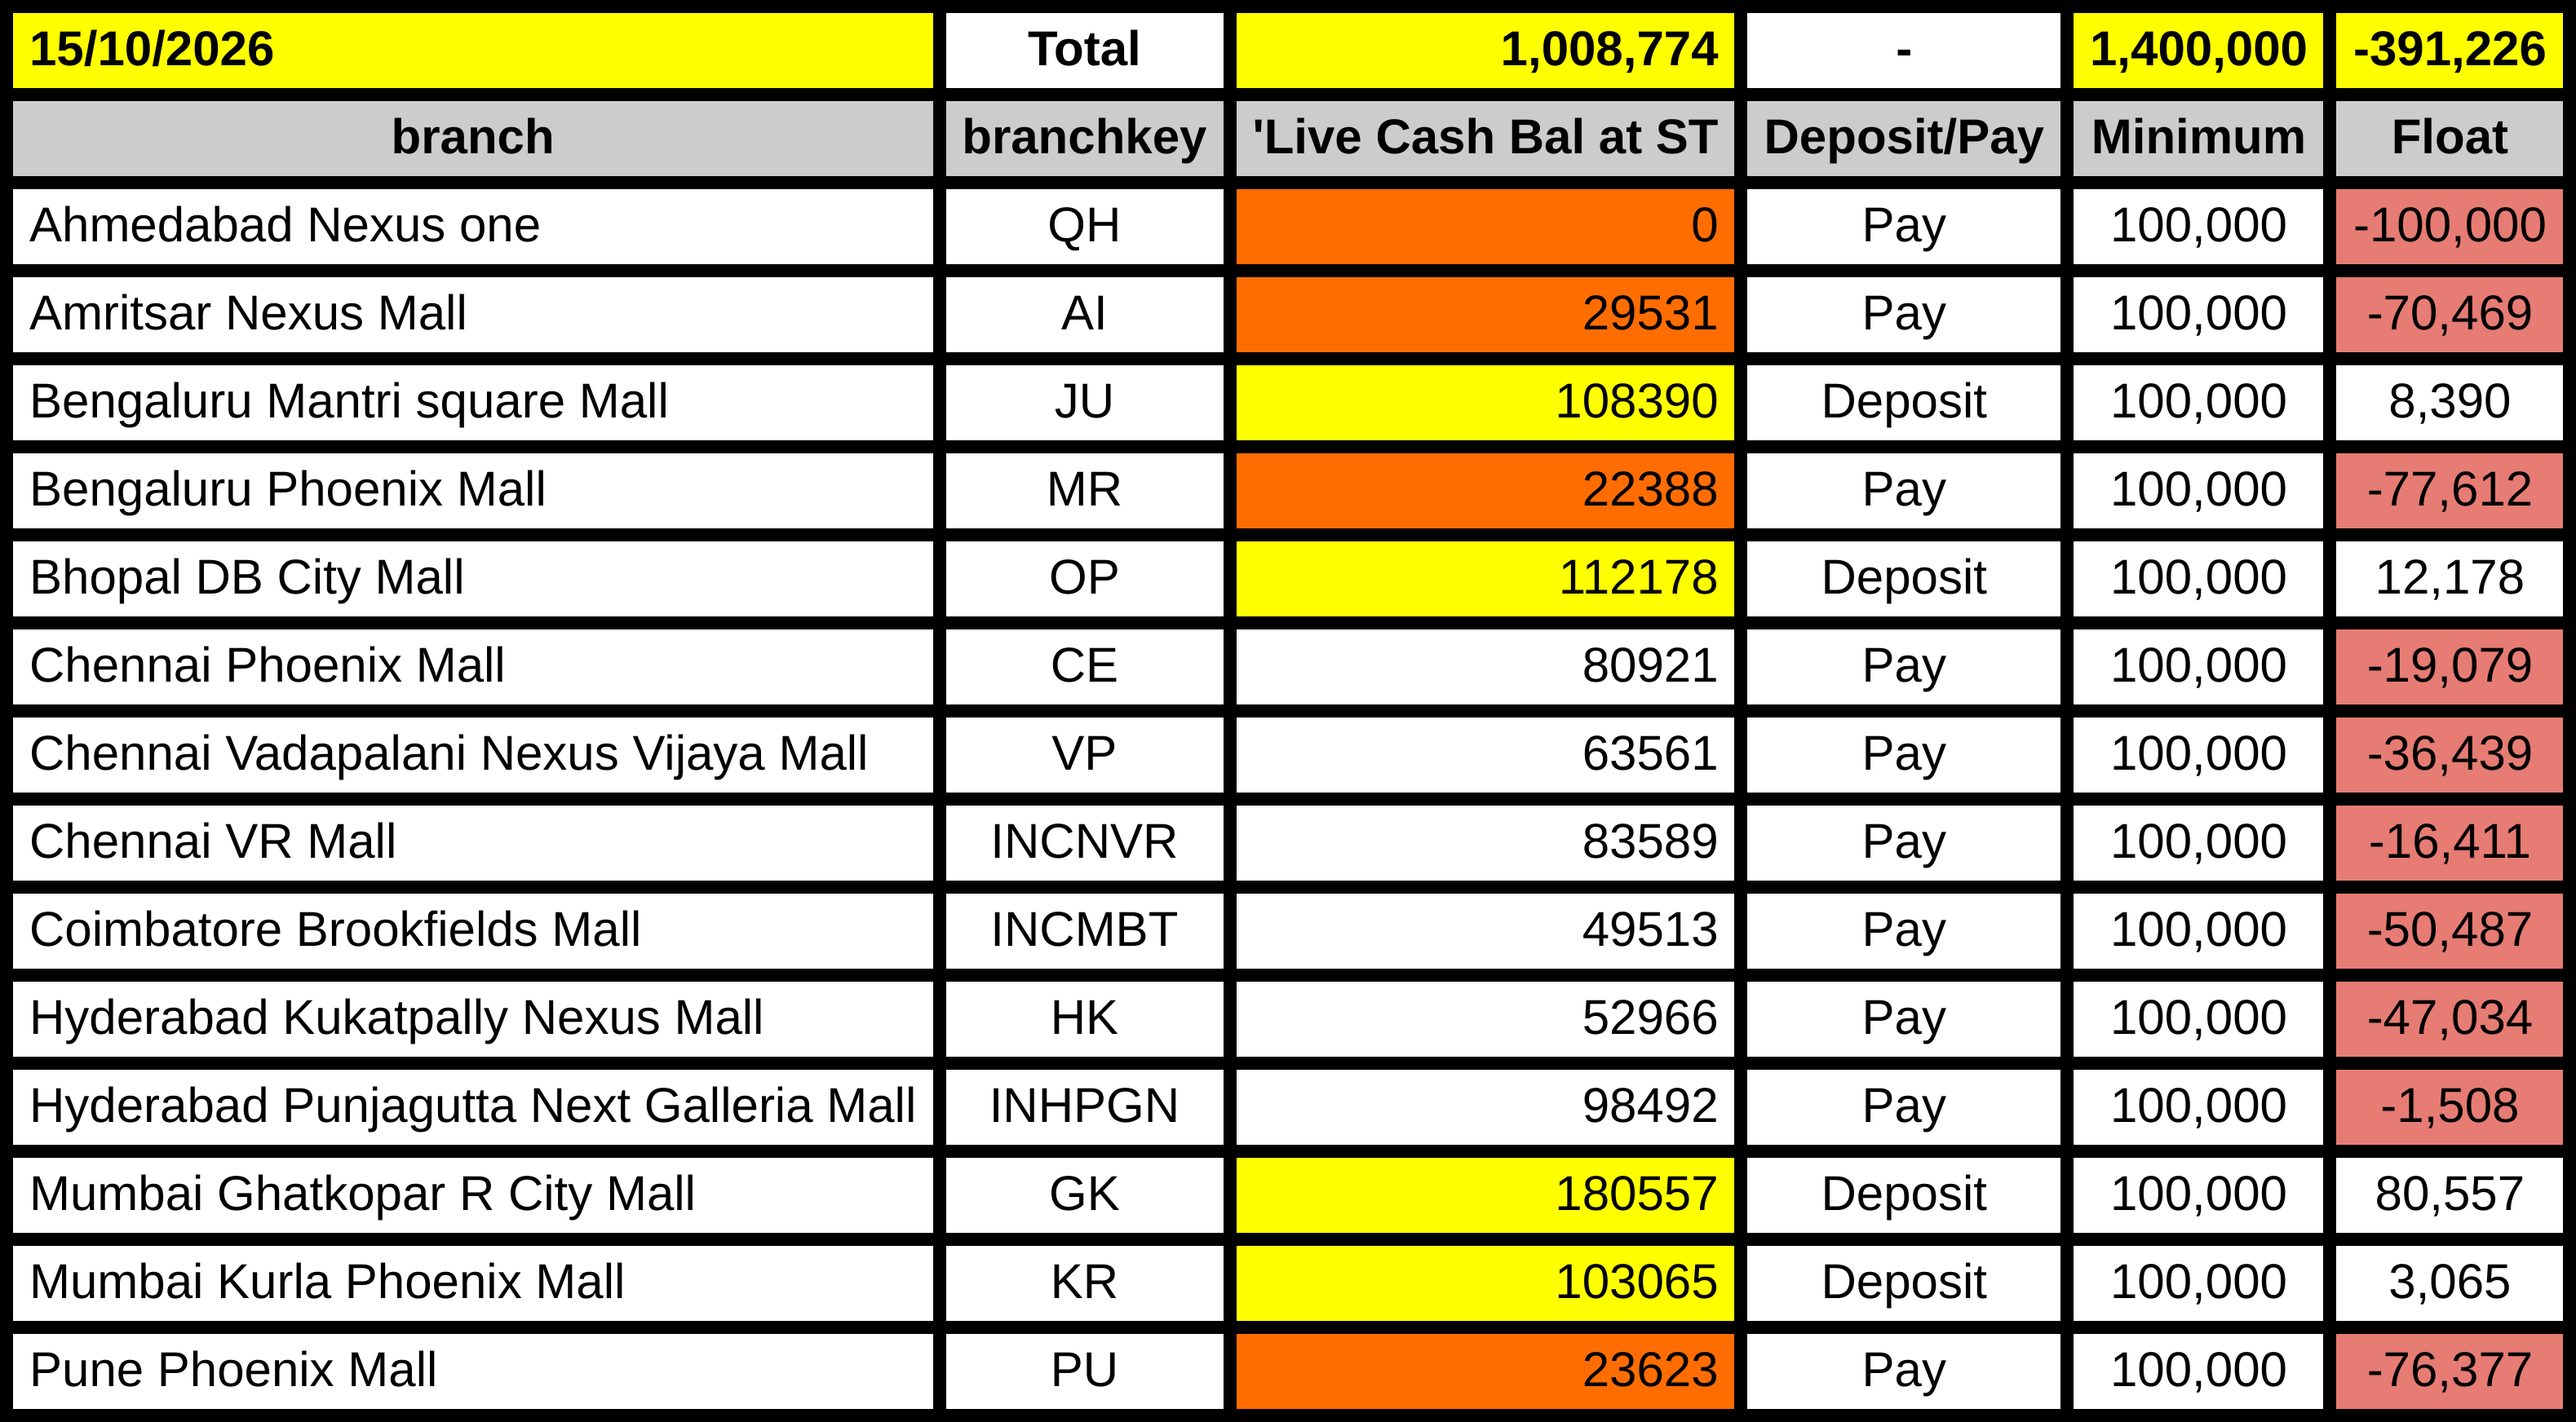
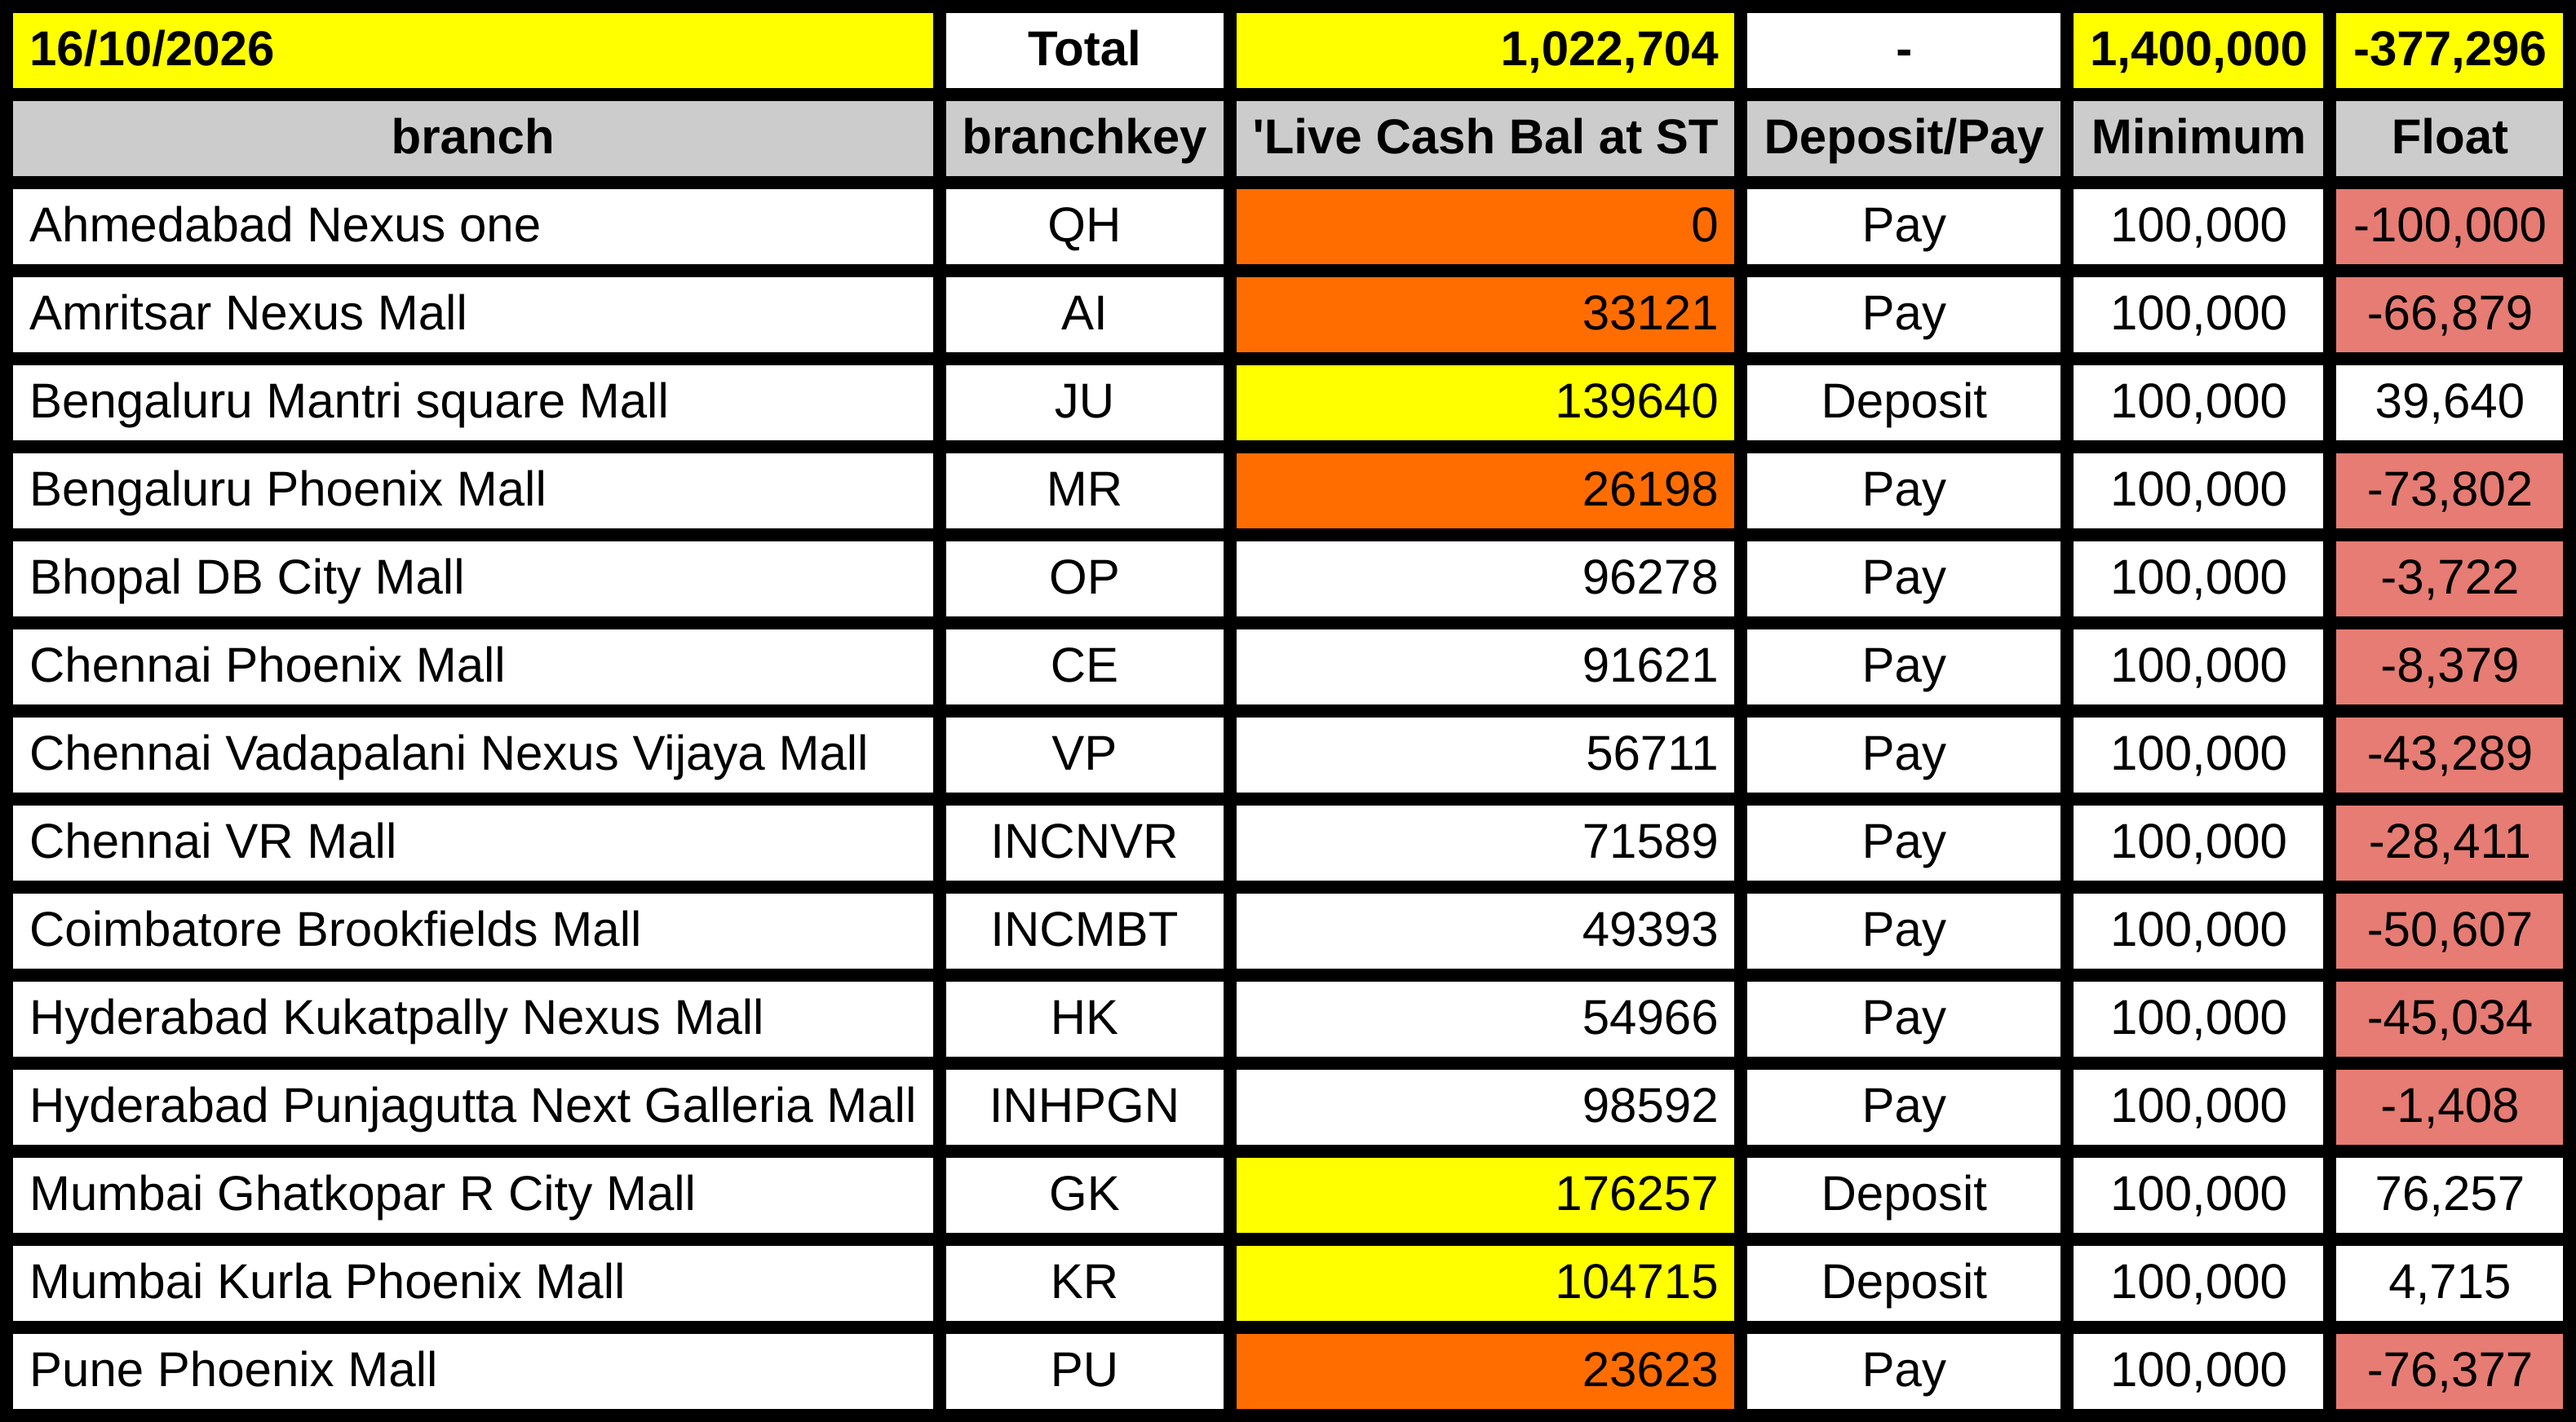
deploy: 1eb6ce62876c9d41067b4594acfaffc291ee4c8b

diff --git a/table.html b/table.html
@@ -21,7 +21,7 @@
           font-family: Arial, sans-serif;
           font-size: 30px;
           white-space: nowrap;
-        ">15/10/2026</td>
+        ">16/10/2026</td>
       
         <td style="
           background-color: #ffffff;
@@ -49,7 +49,7 @@
           font-family: Arial, sans-serif;
           font-size: 30px;
           white-space: nowrap;
-        ">1,008,774</td>
+        ">1,022,704</td>
       
         <td style="
           background-color: #ffffff;
@@ -91,7 +91,7 @@
           font-family: Arial, sans-serif;
           font-size: 30px;
           white-space: nowrap;
-        ">-391,226</td>
+        ">-377,296</td>
       </tr><tr>
         <td style="
           background-color: #cccccc;
@@ -301,7 +301,7 @@
           font-family: Arial, sans-serif;
           font-size: 30px;
           white-space: nowrap;
-        ">29531</td>
+        ">33121</td>
       
         <td style="
           background-color: #ffffff;
@@ -343,7 +343,7 @@
           font-family: Arial, sans-serif;
           font-size: 30px;
           white-space: nowrap;
-        ">-70,469</td>
+        ">-66,879</td>
       </tr><tr>
         <td style="
           background-color: #ffffff;
@@ -385,7 +385,7 @@
           font-family: Arial, sans-serif;
           font-size: 30px;
           white-space: nowrap;
-        ">108390</td>
+        ">139640</td>
       
         <td style="
           background-color: #ffffff;
@@ -427,7 +427,7 @@
           font-family: Arial, sans-serif;
           font-size: 30px;
           white-space: nowrap;
-        ">8,390</td>
+        ">39,640</td>
       </tr><tr>
         <td style="
           background-color: #ffffff;
@@ -469,7 +469,7 @@
           font-family: Arial, sans-serif;
           font-size: 30px;
           white-space: nowrap;
-        ">22388</td>
+        ">26198</td>
       
         <td style="
           background-color: #ffffff;
@@ -511,7 +511,7 @@
           font-family: Arial, sans-serif;
           font-size: 30px;
           white-space: nowrap;
-        ">-77,612</td>
+        ">-73,802</td>
       </tr><tr>
         <td style="
           background-color: #ffffff;
@@ -542,7 +542,7 @@
         ">OP</td>
       
         <td style="
-          background-color: #ffff00;
+          background-color: #ffffff;
           color: #000000;
           font-weight: normal;
           font-style: normal;
@@ -553,7 +553,7 @@
           font-family: Arial, sans-serif;
           font-size: 30px;
           white-space: nowrap;
-        ">112178</td>
+        ">96278</td>
       
         <td style="
           background-color: #ffffff;
@@ -567,7 +567,7 @@
           font-family: Arial, sans-serif;
           font-size: 30px;
           white-space: nowrap;
-        ">Deposit</td>
+        ">Pay</td>
       
         <td style="
           background-color: #ffffff;
@@ -584,7 +584,7 @@
         ">100,000</td>
       
         <td style="
-          background-color: #ffffff;
+          background-color: #e67c73;
           color: #000000;
           font-weight: normal;
           font-style: normal;
@@ -595,7 +595,7 @@
           font-family: Arial, sans-serif;
           font-size: 30px;
           white-space: nowrap;
-        ">12,178</td>
+        ">-3,722</td>
       </tr><tr>
         <td style="
           background-color: #ffffff;
@@ -637,7 +637,7 @@
           font-family: Arial, sans-serif;
           font-size: 30px;
           white-space: nowrap;
-        ">80921</td>
+        ">91621</td>
       
         <td style="
           background-color: #ffffff;
@@ -679,7 +679,7 @@
           font-family: Arial, sans-serif;
           font-size: 30px;
           white-space: nowrap;
-        ">-19,079</td>
+        ">-8,379</td>
       </tr><tr>
         <td style="
           background-color: #ffffff;
@@ -721,7 +721,7 @@
           font-family: Arial, sans-serif;
           font-size: 30px;
           white-space: nowrap;
-        ">63561</td>
+        ">56711</td>
       
         <td style="
           background-color: #ffffff;
@@ -763,7 +763,7 @@
           font-family: Arial, sans-serif;
           font-size: 30px;
           white-space: nowrap;
-        ">-36,439</td>
+        ">-43,289</td>
       </tr><tr>
         <td style="
           background-color: #ffffff;
@@ -805,7 +805,7 @@
           font-family: Arial, sans-serif;
           font-size: 30px;
           white-space: nowrap;
-        ">83589</td>
+        ">71589</td>
       
         <td style="
           background-color: #ffffff;
@@ -847,7 +847,7 @@
           font-family: Arial, sans-serif;
           font-size: 30px;
           white-space: nowrap;
-        ">-16,411</td>
+        ">-28,411</td>
       </tr><tr>
         <td style="
           background-color: #ffffff;
@@ -889,7 +889,7 @@
           font-family: Arial, sans-serif;
           font-size: 30px;
           white-space: nowrap;
-        ">49513</td>
+        ">49393</td>
       
         <td style="
           background-color: #ffffff;
@@ -931,7 +931,7 @@
           font-family: Arial, sans-serif;
           font-size: 30px;
           white-space: nowrap;
-        ">-50,487</td>
+        ">-50,607</td>
       </tr><tr>
         <td style="
           background-color: #ffffff;
@@ -973,7 +973,7 @@
           font-family: Arial, sans-serif;
           font-size: 30px;
           white-space: nowrap;
-        ">52966</td>
+        ">54966</td>
       
         <td style="
           background-color: #ffffff;
@@ -1015,7 +1015,7 @@
           font-family: Arial, sans-serif;
           font-size: 30px;
           white-space: nowrap;
-        ">-47,034</td>
+        ">-45,034</td>
       </tr><tr>
         <td style="
           background-color: #ffffff;
@@ -1057,7 +1057,7 @@
           font-family: Arial, sans-serif;
           font-size: 30px;
           white-space: nowrap;
-        ">98492</td>
+        ">98592</td>
       
         <td style="
           background-color: #ffffff;
@@ -1099,7 +1099,7 @@
           font-family: Arial, sans-serif;
           font-size: 30px;
           white-space: nowrap;
-        ">-1,508</td>
+        ">-1,408</td>
       </tr><tr>
         <td style="
           background-color: #ffffff;
@@ -1141,7 +1141,7 @@
           font-family: Arial, sans-serif;
           font-size: 30px;
           white-space: nowrap;
-        ">180557</td>
+        ">176257</td>
       
         <td style="
           background-color: #ffffff;
@@ -1183,7 +1183,7 @@
           font-family: Arial, sans-serif;
           font-size: 30px;
           white-space: nowrap;
-        ">80,557</td>
+        ">76,257</td>
       </tr><tr>
         <td style="
           background-color: #ffffff;
@@ -1225,7 +1225,7 @@
           font-family: Arial, sans-serif;
           font-size: 30px;
           white-space: nowrap;
-        ">103065</td>
+        ">104715</td>
       
         <td style="
           background-color: #ffffff;
@@ -1267,7 +1267,7 @@
           font-family: Arial, sans-serif;
           font-size: 30px;
           white-space: nowrap;
-        ">3,065</td>
+        ">4,715</td>
       </tr><tr>
         <td style="
           background-color: #ffffff;
